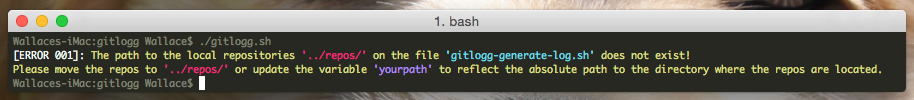
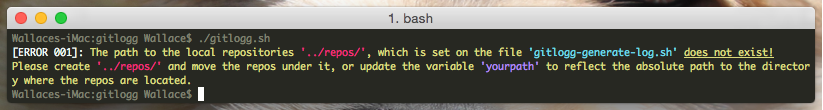
Handle 'no such file or directory' and 'empty directory' errors separately

diff --git a/README.md b/README.md
@@ -22,11 +22,14 @@
 
 **Gitlogg** is not a very complex application, but I still made an effort to provide some feedback on what is happening under the hood. Below are some screenshots of dialogs one can expect to see while executing it:
 
-![Success!](https://raw.githubusercontent.com/dreamyguy/gitlogg/master/docs/success.png "Success messages as on release v0.1.2")
+![Success!](https://raw.githubusercontent.com/dreamyguy/gitlogg/master/docs/success.png "Success messages as on release v0.1.3")
 > **Success!** `JSON` parsed, based on **7** different repositories with a total of **7375** commits.
 
-![Error 001](https://raw.githubusercontent.com/dreamyguy/gitlogg/master/docs/error-001.png "'Error 001' message as on release v0.1.2")
-> **Øh nøes!** The path to the folder containing all repositories needs to be reviewed...
+![Error 001](https://raw.githubusercontent.com/dreamyguy/gitlogg/master/docs/error-001.png "'Error 001' message as on release v0.1.3")
+> **Øh nøes!** The path to the folder containing all repositories *does not exist!*
+
+![Error 002](https://raw.githubusercontent.com/dreamyguy/gitlogg/master/docs/error-002.png "'Error 002' message as on release v0.1.3")
+> **Øh nøes!** The path to the folder containing all repositories *exists, but is empty!*
 
 ## Requirements
 
@@ -213,6 +216,7 @@ It's certainly not harmful to your repositories and it won't change any data in 
 
 #### Release History
 
+* 2016-05-21   [v0.1.3](https://github.com/dreamyguy/gitlogg/tree/v0.1.3)   Even better error handling
 * 2016-05-21   [v0.1.2](https://github.com/dreamyguy/gitlogg/tree/v0.1.2)   Better error handling
 * 2016-05-21   [v0.1.1](https://github.com/dreamyguy/gitlogg/tree/v0.1.1)   The 'gitlogg' release, the node-based JSON generation
 * 2016-05-20   [v0.1.0](https://github.com/dreamyguy/gitlogg/tree/v0.1.0)   The 'git-log-to-json' release, now considered legacy
